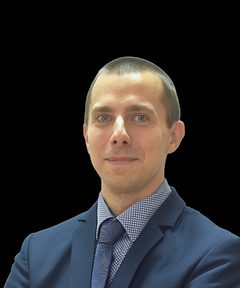
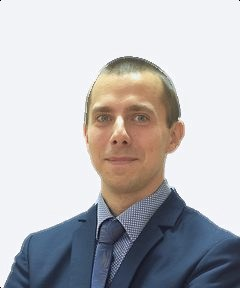
Apply member feedback from Teams; coordinator first in every research line; People menu renamed Members
- Márk Kovács: ORCID, new bio; Kovács, Ollé, Matlári: unit renamed Center for Educational Methodology and Innovation (also on the Learning & Education page)
- Henrik Zsiborács: new bio; portrait on a light neutral background instead of the flattened black one
- Nóra Obermayer: moved from Risk & Governance to Human-Centered Industry
- Tibor Guzsvinecz: portrait from his own website, as he asked
- János Abonyi in all nine research lines, listed first everywhere

Claude-Session: https://claude.ai/code/session_01B7ZiGmuaHubajR6MzETjPS

diff --git a/_partials/footer.html b/_partials/footer.html
@@ -24,7 +24,7 @@
     <div>
       <h3>Network</h3>
       <ul>
-        <li><a href="/people.html">People</a></li>
+        <li><a href="/people.html">Members</a></li>
         <li><a href="/news/index.html">News</a></li>
         <li><a href="/events.html">Events</a></li>
         <li><a href="/activities.html">Activities</a></li>

diff --git a/scripts/build_data.py b/scripts/build_data.py
@@ -51,7 +51,9 @@ def load():
         bad = set(m.get("lines", [])) - line_ids
         if bad:
             sys.exit(f"{m['id']}: unknown research line(s) {bad}")
-    members.sort(key=lambda m: (m["family"].casefold(), m["given"].casefold()))
+    # the coordinator comes first everywhere (every research line, the People/Members page, the graph);
+    # everyone else in alphabetical order of family name
+    members.sort(key=lambda m: (m.get("role") != "Coordinator", m["family"].casefold(), m["given"].casefold()))
     return lines, members
 
 
@@ -150,7 +152,7 @@ def build():
     GEN.mkdir(exist_ok=True)
     DATA.mkdir(parents=True, exist_ok=True)
 
-    # People page: grouped by research line; a member appears under every line they belong to
+    # Members page (people.html): grouped by research line; a member appears under every line they belong to
     out = ['<nav class="line-index" aria-label="Jump to research line"><ul>']
     for l in lines:
         n = sum(1 for m in members if l["id"] in m["lines"])
